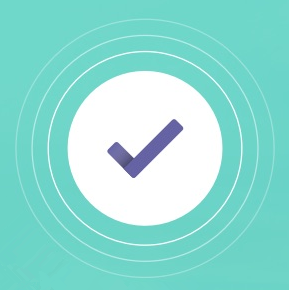
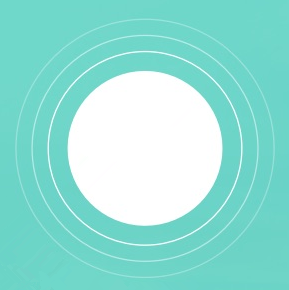
订水页面3改

Changed region(s): [[0.3737, 0.4034, 0.654, 0.6207]]

diff --git a/orderwater.html b/orderwater.html
@@ -21,8 +21,9 @@
         <h1>订水</h1>
     </div>
       <div id="container">
-      <!--<a class="button button-glow button-rounded button-primary button-circle button-giant">刷水</a>-->
-      <img src="static/images/orderwater.png" alt="" width="150px" height="150px"class="img-circle">
+      <a href="pay.html">
+      <img src="static/images/orderwater2.png" alt="" width="150px" height="150px" class="img-circle">
+      </a>
     </div>
   
       <div class="content">

diff --git a/src/orderwater.scss b/src/orderwater.scss
@@ -112,8 +112,8 @@ span {
     font-size: 13px; }
 #container {
     padding-top:45px;
-    height: 330px;
-    padding-bottom: 20px;
+    height: 320px;
+    // padding-bottom: 20px;
     background-color:#6BD6CA;
     text-align:center;
 }
@@ -162,7 +162,7 @@ span {
           /*margin: 0 10px;*/
           font-size: 2.0rem; 
           margin-top:13px;
-          color:#00E3E3;
+          color:#6BD6CA;
           margin-left:5%;
         }
         .date {

diff --git a/stylesheets/orderwater.css b/stylesheets/orderwater.css
@@ -104,8 +104,7 @@ span {
 
 #container {
   padding-top: 45px;
-  height: 330px;
-  padding-bottom: 20px;
+  height: 320px;
   background-color: #6BD6CA;
   text-align: center; }
 
@@ -152,7 +151,7 @@ span {
       /*margin: 0 10px;*/
       font-size: 2.0rem;
       margin-top: 13px;
-      color: #00E3E3;
+      color: #6BD6CA;
       margin-left: 5%; }
     .content .item .date {
       display: block;
